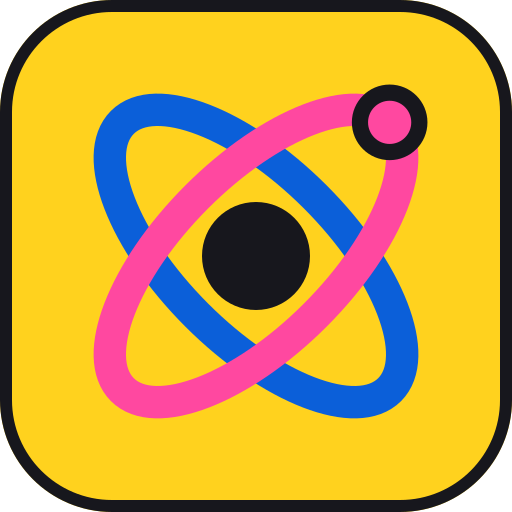
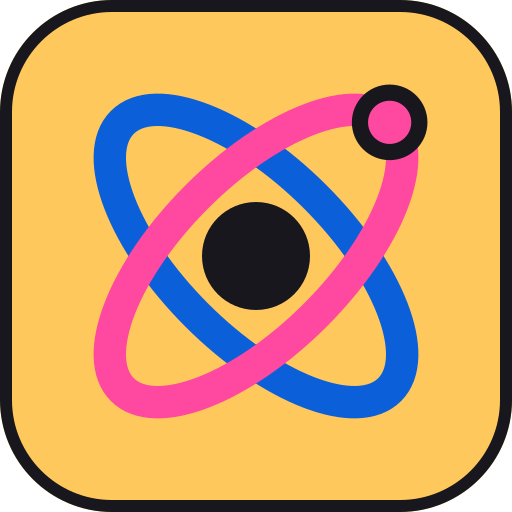
feat: one brand across the funnel — the app's amber is the marketing site's amber
The landing page was built on #FFC85C and the app on #FFD21E, with nothing
outside each file agreeing the other existed. They are one origin now (landing
at /, app at /app), so a student crosses from one to the other in a click and
saw two products. The two primaries are #FFC85C amber and #0B5FD9 blue - one
from each half, neither invented, and the pair survives all seven surfaces
either one has to sit on (weakest 3.7:1).

Changed one ink in docs/brand/build-theme.mjs and re-ran it. ALL 47 MEASURED
PAIRS STILL PASS - that is the whole reason the palette is a script: ink on
amber is 11.62:1 and amber on the dark surface is 12.03:1, both checked before
anything was emitted. Exactly three tokens moved: primary-fixed, its dim, and
the two surface tints that are mixed FROM the amber.

Law 3 survives the swap and is the reason it is safe rather than cosmetic:
#FFC85C is 1.44:1 on newsprint, even less visible unbounded than #FFD21E's
1.35:1, so it still never appears without a keyline.

The landing page moved to the app's ink #17171D and paper #FAF7F0 - two darks
and two papers became one of each. Its --blue token, declared and used nowhere,
now points at the brand blue instead of a stray #3b82f6.

TWO PRE-EXISTING BUGS IN make-app-icons.mjs, both found by running it:

  1. The splash grounds were the literals #f7f9fb and #101317 - the PRE-RISO
     pair, two palettes old. Nobody noticed because nobody re-ran the script:
[…]

diff --git a/landing/app/globals.css b/landing/app/globals.css
@@ -8,7 +8,7 @@
   --font-serif: 'Georgia', serif;
 }
 
-:root { --background: #fffdf8; --foreground: #171717; --ink: #1b1b1b; --sun: #ffc85c; --cream: #fff3dc; --line: #d8cdbb; --blue: #3b82f6; }
+:root { --background: #FAF7F0; --foreground: #17171D; --ink: #17171D; --sun: #FFC85C; --cream: #FFF3DC; --line: #D8CDBB; --blue: #0B5FD9; }
 * { box-sizing: border-box; }
 html { scroll-behavior: smooth; background: var(--background); }
 body { margin: 0; background: var(--background); color: var(--foreground); font-family: var(--font-sans); }
@@ -21,7 +21,7 @@ body { margin: 0; background: var(--background); color: var(--foreground); font-
 .feature:hover, .course-card:hover { transform: translateY(-6px); box-shadow: 0 20px 38px rgba(27, 27, 27, .15), 0 5px 12px rgba(27, 27, 27, .08); }
 .cta { box-shadow: 0 18px 40px rgba(27, 27, 27, .14); }
 .stats div:hover { transform: translateY(-3px); }
-.event-section { background: var(--cream); padding: 76px 0 88px; }.event-shell { display:grid; grid-template-columns:.8fr 1.2fr; gap:70px; align-items:center; }.event-copy h2 { font-size:clamp(54px,7vw,92px); line-height:.92; margin:18px 0 22px; }.event-copy > p:not(.event-kicker) { max-width:430px; line-height:1.7; color:#635c53; }.event-kicker { display:flex; align-items:center; gap:8px; text-transform:uppercase; letter-spacing:.15em; font-size:11px; font-weight:800; }.live-dot { width:9px; height:9px; border-radius:50%; background:#ff5b3d; box-shadow:0 0 0 5px rgba(255,91,61,.14); }.event-details { display:flex; flex-wrap:wrap; gap:9px; margin:25px 0 29px; }.event-details span { padding:8px 12px; border-radius:999px; background:#fffdf8; border:1px solid #e5ddcf; font-size:11px; font-weight:700; }.event-pill { background:var(--ink); color:#fffdf8; }.prize-board { background:linear-gradient(135deg,#1688e8 0%,#4f4ed8 48%,#8334aa 100%); border-radius:30px; padding:30px; color:#fff; box-shadow:0 22px 45px rgba(36,56,153,.23); transform:rotate(1.2deg); }.prize-head { display:grid; grid-template-columns:1fr auto; align-items:end; padding-bottom:20px; border-bottom:1px solid rgba(255,255,255,.25); }.prize-head span,.prize-head small { grid-column:1; text-transform:uppercase; letter-spacing:.13em; font-size:10px; opacity:.8; }.prize-head strong { grid-column:2; grid-row:1 / span 2; font-size:32px; color:#ffd85c; }.prize-list { display:grid; grid-template-columns:repeat(3,1fr); gap:12px; padding:22px 0 17px; }.prize-card { min-height:142px; border-radius:17px; padding:16px; display:flex; flex-direction:column; justify-content:space-between; color:var(--ink); box-shadow:0 8px 16px rgba(16,29,91,.15); transition:transform .25s ease,box-shadow .25s ease; overflow:hidden; }.prize-card img { width:100%; height:82px; object-fit:contain; mix-blend-mode:multiply; filter:drop-shadow(0 8px 6px rgba(27,27,27,.16)); }.prize-card:hover { transform:translateY(-6px) rotate(-1deg); box-shadow:0 15px 22px rgba(16,29,91,.23); }.prize-card.first { background:#ffd85c; }.prize-card.second { background:#fffdf8; }.prize-card.third { background:#66e0bd; }.prize-card.small-prize { background:#f4b3ff; min-height:105px; }.rank { font-size:11px; font-weight:900; letter-spacing:.12em; opacity:.55; }.prize-card b { display:block; font-size:18px; line-height:1.05; }.prize-card small { display:block; font-size:10px; margin-top:6px; opacity:.7; }.prize-spark { align-self:flex-end; font-size:22px; }.event-footnote { margin:0; font-size:11px; opacity:.8; text-align:right; }
+.event-section { background: var(--cream); padding: 76px 0 88px; }.event-shell { display:grid; grid-template-columns:.8fr 1.2fr; gap:70px; align-items:center; }.event-copy h2 { font-size:clamp(54px,7vw,92px); line-height:.92; margin:18px 0 22px; }.event-copy > p:not(.event-kicker) { max-width:430px; line-height:1.7; color:#635c53; }.event-kicker { display:flex; align-items:center; gap:8px; text-transform:uppercase; letter-spacing:.15em; font-size:11px; font-weight:800; }.live-dot { width:9px; height:9px; border-radius:50%; background:#ff5b3d; box-shadow:0 0 0 5px rgba(255,91,61,.14); }.event-details { display:flex; flex-wrap:wrap; gap:9px; margin:25px 0 29px; }.event-details span { padding:8px 12px; border-radius:999px; background:#FAF7F0; border:1px solid #e5ddcf; font-size:11px; font-weight:700; }.event-pill { background:var(--ink); color:#FAF7F0; }.prize-board { background:linear-gradient(135deg,#1688e8 0%,#4f4ed8 48%,#8334aa 100%); border-radius:30px; padding:30px; color:#fff; box-shadow:0 22px 45px rgba(36,56,153,.23); transform:rotate(1.2deg); }.prize-head { display:grid; grid-template-columns:1fr auto; align-items:end; padding-bottom:20px; border-bottom:1px solid rgba(255,255,255,.25); }.prize-head span,.prize-head small { grid-column:1; text-transform:uppercase; letter-spacing:.13em; font-size:10px; opacity:.8; }.prize-head strong { grid-column:2; grid-row:1 / span 2; font-size:32px; color:#ffd85c; }.prize-list { display:grid; grid-template-columns:repeat(3,1fr); gap:12px; padding:22px 0 17px; }.prize-card { min-height:142px; border-radius:17px; padding:16px; display:flex; flex-direction:column; justify-content:space-between; color:var(--ink); box-shadow:0 8px 16px rgba(16,29,91,.15); transition:transform .25s ease,box-shadow .25s ease; overflow:hidden; }.prize-card img { width:100%; height:82px; object-fit:contain; mix-blend-mode:multiply; filter:drop-shadow(0 8px 6px rgba(27,27,27,.16)); }.prize-card:hover { transform:translateY(-6px) rotate(-1deg); box-shadow:0 15px 22px rgba(16,29,91,.23); }.prize-card.first { background:#ffd85c; }.prize-card.second { background:#FAF7F0; }.prize-card.third { background:#66e0bd; }.prize-card.small-prize { background:#f4b3ff; min-height:105px; }.rank { font-size:11px; font-weight:900; letter-spacing:.12em; opacity:.55; }.prize-card b { display:block; font-size:18px; line-height:1.05; }.prize-card small { display:block; font-size:10px; margin-top:6px; opacity:.7; }.prize-spark { align-self:flex-end; font-size:22px; }.event-footnote { margin:0; font-size:11px; opacity:.8; text-align:right; }
 @media (max-width:760px) { .subpage-hero { grid-template-columns:1fr; gap:30px; padding-block:70px; }.subpage-visual { min-height:300px; }.subpage-note { position:absolute; right:0; bottom:0; padding:22px; }.coming-soon-art { position:relative; right:auto; top:auto; width:260px; transform:none; order:-1; }.test-art { width:260px; }.event-shell { grid-template-columns:1fr; gap:38px; }.prize-board { transform:none; padding:20px; }.prize-list { grid-template-columns:repeat(2,1fr); }.prize-card.first { grid-column:span 2; min-height:120px; } }
 @media (prefers-reduced-motion: reduce) { *, *::before, *::after { animation-duration: .01ms !important; animation-iteration-count: 1 !important; scroll-behavior: auto !important; transition-duration: .01ms !important; } }
 a { color: inherit; text-decoration: none; }
@@ -37,7 +37,7 @@ a { color: inherit; text-decoration: none; }
 .menu-button { display: none; border: 0; background: none; font: inherit; }
 .pill { border-radius: 999px; padding: 13px 20px; display: inline-flex; align-items: center; gap: 8px; font-size: 12px; font-weight: 700; transition: transform .2s, box-shadow .2s; }
 .pill:hover, .mini-link:hover { transform: translateY(-2px); }
-.dark-pill { background: var(--ink); color: #fffdf8; }
+.dark-pill { background: var(--ink); color: #FAF7F0; }
 .outline-pill { border: 1px solid var(--ink); }
 .yellow-pill { background: var(--sun); color: var(--ink); }
 .hero-content { display: grid; grid-template-columns: .9fr 1.1fr; align-items: center; min-height: 570px; position: relative; z-index: 1; }
@@ -52,13 +52,13 @@ em { font-family: var(--font-serif); font-weight: 400; letter-spacing: -.08em; }
 .stats { min-height: 155px; display: grid; grid-template-columns: repeat(4,1fr); align-items: center; text-align: center; gap: 20px; }
 .stats div + div { border-left: 1px solid var(--line); }.stats strong { display: block; font-size: 31px; letter-spacing: -.07em; }.stats span { font-size: 11px; color: #767067; text-transform: uppercase; letter-spacing: .08em; }
 .intro,.steps { display: grid; grid-template-columns: 1fr 1fr; gap: 90px; align-items: center; padding-block: 110px; }.intro { background: var(--cream); max-width: none; padding-inline: max(32px, calc((100% - 1160px)/2)); box-shadow: inset 0 18px 30px rgba(27,27,27,.035), inset 0 -18px 30px rgba(27,27,27,.035); }.intro-art img,.steps-art img { width: 100%; max-height: 440px; object-fit: contain; mix-blend-mode: multiply; filter: drop-shadow(0 16px 12px rgba(27,27,27,.12)); }.section-copy > p:not(.eyebrow) { max-width: 420px; line-height: 1.7; color: #5d574e; }.text-link,.mini-link { display: inline-flex; gap: 8px; font-weight: 800; font-size: 13px; border-bottom: 1px solid var(--ink); padding-bottom: 5px; margin-top: 18px; }
-.why { padding-block: 110px; }.why-head { display:flex; justify-content:space-between; align-items:end; margin-bottom: 52px; }.why-head > p { max-width: 270px; line-height: 1.6; color:#71695e; }.feature-grid { display:grid; grid-template-columns: repeat(4, 1fr); gap: 18px; }.feature { min-height: 230px; border: 1px solid #eee9e0; border-radius: 20px; padding: 27px; box-shadow: 0 10px 30px #1b1b1b08; display:flex; flex-direction:column; }.feature p,.course-card p { line-height:1.55; font-size:13px; color:#71695e; }.feature h3 { margin-top:auto; }.icon { width: 48px; height: 48px; display:grid; place-items:center; margin-bottom: 30px; color: var(--ink); background: var(--sun); border-radius: 14px; }.icon svg { width: 25px; height: 25px; stroke-width: 1.9; }.course-meta span { display:inline-flex; align-items:center; gap:5px; }.course-meta svg { width:12px; height:12px; color:var(--sun-deep); stroke-width:2.2; }
-.courses { background: var(--ink); color: #fffdf8; padding-block: 105px; box-shadow: inset 0 16px 30px rgba(0,0,0,.14), inset 0 -16px 30px rgba(0,0,0,.14); }.courses-heading { display:flex; align-items:end; justify-content:space-between; margin-bottom: 48px; }.courses-heading h2 { margin-bottom:0; }.courses-heading > p:last-child { color:#b9b4ad; margin-bottom:6px; }.course-grid { display:grid; grid-template-columns:repeat(3,1fr); gap:20px; }.course-card { color:var(--ink); background:#fffdf8; border-radius:16px; padding:12px 12px 22px; }.course-image { border-radius:11px; height:210px; display:flex; align-items:center; justify-content:center; overflow:hidden; }.image-0 { background:#f3d3bb; }.image-1 { background:#dce5fa; }.image-2 { background:#d6f0db; }.course-image img { width:100%; height:100%; object-fit:contain; mix-blend-mode:multiply; }.course-meta { display:flex; justify-content:space-between; color:#777; font-size:10px; margin:15px 4px 8px; }.course-card h3,.course-card p { margin-inline:4px; }.course-card h3 { font-size:17px; }.course-card p { min-height: 42px; }.mini-link { margin: 9px 4px 0; font-size:11px; }
+.why { padding-block: 110px; }.why-head { display:flex; justify-content:space-between; align-items:end; margin-bottom: 52px; }.why-head > p { max-width: 270px; line-height: 1.6; color:#71695e; }.feature-grid { display:grid; grid-template-columns: repeat(4, 1fr); gap: 18px; }.feature { min-height: 230px; border: 1px solid #eee9e0; border-radius: 20px; padding: 27px; box-shadow: 0 10px 30px #17171D08; display:flex; flex-direction:column; }.feature p,.course-card p { line-height:1.55; font-size:13px; color:#71695e; }.feature h3 { margin-top:auto; }.icon { width: 48px; height: 48px; display:grid; place-items:center; margin-bottom: 30px; color: var(--ink); background: var(--sun); border-radius: 14px; }.icon svg { width: 25px; height: 25px; stroke-width: 1.9; }.course-meta span { display:inline-flex; align-items:center; gap:5px; }.course-meta svg { width:12px; height:12px; color:var(--sun-deep); stroke-width:2.2; }
+.courses { background: var(--ink); color: #FAF7F0; padding-block: 105px; box-shadow: inset 0 16px 30px rgba(0,0,0,.14), inset 0 -16px 30px rgba(0,0,0,.14); }.courses-heading { display:flex; align-items:end; justify-content:space-between; margin-bottom: 48px; }.courses-heading h2 { margin-bottom:0; }.courses-heading > p:last-child { color:#b9b4ad; margin-bottom:6px; }.course-grid { display:grid; grid-template-columns:repeat(3,1fr); gap:20px; }.course-card { color:var(--ink); background:#FAF7F0; border-radius:16px; padding:12px 12px 22px; }.course-image { border-radius:11px; height:210px; display:flex; align-items:center; justify-content:center; overflow:hidden; }.image-0 { background:#f3d3bb; }.image-1 { background:#dce5fa; }.image-2 { background:#d6f0db; }.course-image img { width:100%; height:100%; object-fit:contain; mix-blend-mode:multiply; }.course-meta { display:flex; justify-content:space-between; color:#777; font-size:10px; margin:15px 4px 8px; }.course-card h3,.course-card p { margin-inline:4px; }.course-card h3 { font-size:17px; }.course-card p { min-height: 42px; }.mini-link { margin: 9px 4px 0; font-size:11px; }
 .steps { padding-block: 130px; }.steps ul { list-style:none; padding: 12px 0 0; margin:0; display:grid; gap:15px; font-size:13px; }.steps li { display:flex; align-items:center; gap:14px; }.steps li b { background:var(--sun); border-radius:50%; width:23px; height:23px; display:grid; place-items:center; font-size:9px; }.steps-art { display:flex; justify-content:center; }
-.cta { background:var(--sun); border-radius:28px; display:grid; grid-template-columns: .8fr 1.2fr; align-items:center; padding:25px 80px 0; overflow:hidden; }.cta-art { align-self:end; height:300px; }.cta-art img { width:100%; height:100%; object-fit:contain; object-position:bottom; mix-blend-mode:multiply; }.cta h2 { font-size:clamp(38px,4vw,60px); }.app-promo { text-align:center; padding-block:130px; background:var(--cream); margin-top:80px; }.app-promo p:not(.eyebrow) { color:#71695e; }.store-buttons { display:flex; justify-content:center; gap:10px; margin-top:26px; }.play-store-button { background:var(--ink); color:#fffdf8; border:0; border-radius:10px; display:flex; align-items:center; gap:13px; text-align:left; padding:15px 24px; min-width:190px; box-shadow:0 10px 20px rgba(27,27,27,.16); transition:transform .2s ease, box-shadow .2s ease; }.play-store-button:hover { transform:translateY(-3px); box-shadow:0 15px 26px rgba(27,27,27,.22); }.play-store-button img { width:30px; height:30px; }.play-store-button span { font-size:9px; line-height:1.25; letter-spacing:.04em; }.play-store-button b { font-size:17px; letter-spacing:-.03em; }
-footer { background:var(--ink); color:#fffdf8; padding-block:70px 24px; }.footer-grid { display:grid; grid-template-columns:2fr 1fr 1fr 1.4fr; gap:40px; }.footer-grid > div { display:flex; flex-direction:column; gap:13px; }.footer-logo { margin-bottom:12px; }.footer-grid p,.footer-grid a:not(.logo) { color:#bdb8b0; font-size:12px; line-height:1.5; }.footer-grid b { font-size:12px; }.footer-grid form { display:flex; border-bottom:1px solid #777; padding-bottom:8px; }.footer-grid input { background:none; border:0; color:#fffdf8; outline:0; width:100%; }.footer-grid form button { background:none; color:#fffdf8; border:0; font-size:18px; }.joined { color:var(--sun)!important; }.footer-bottom { border-top:1px solid #3e3e3e; margin-top:55px; padding-top:20px; display:flex; justify-content:space-between; color:#777; font-size:10px; }
-@media (max-width: 760px) { .shell { width:min(100% - 38px, 560px); }.nav-links,.nav-actions { display:none; }.subpage .nav-actions { display:flex; }.subpage .back-home { display:none; }.menu-button { display:block; margin-left:auto; margin-right:14px; }.nav-links.is-open { display:flex; position:absolute; top:70px; right:0; background:var(--ink); color:#fffdf8; padding:18px; border-radius:12px; flex-direction:column; gap:14px; }.hero { min-height:780px; }.hero-content { display:block; padding-top:42px; }.hero-copy { padding-bottom:0; }.hero-art { height:390px; }.hero-note { display:none; }.stats { grid-template-columns:repeat(2,1fr); padding-block:30px; }.stats div:nth-child(3) { border-left:0; }.stats div:nth-child(n+3) { margin-top:20px; }.intro,.steps { display:flex; flex-direction:column; gap:25px; padding-block:75px; }.intro { padding-inline:19px; }.intro-art { order:2; }.section-copy { order:1; }.why { padding-block:75px; }.why-head,.courses-heading { display:block; }.why-head > p,.courses-heading > p:last-child { margin-top:24px; }.feature-grid,.course-grid { grid-template-columns:1fr; }.feature { min-height:220px; }.course-image { height:250px; }.cta { grid-template-columns:1fr; padding:35px 28px 0; margin-top:20px; }.cta-art { order:2; height:270px; }.app-promo { margin-top:55px; padding-block:85px; }.footer-grid { grid-template-columns:1fr 1fr; gap:35px 20px; }.footer-grid > div:first-child,.footer-grid > div:last-child { grid-column:span 2; }.footer-bottom { display:block; line-height:2; } }
-.register-page { min-height:100vh; background:var(--sun); }.register-page .nav { padding-block:28px; }.register-page .nav .back-home { display:block; }.register-shell { display:grid; grid-template-columns:.72fr 1.28fr; gap:80px; align-items:start; padding-block:80px 110px; }.register-intro h1,.test-placeholder h1 { font-size:clamp(56px,7vw,96px); line-height:.9; margin:20px 0 26px; }.register-intro > p:not(.eyebrow) { max-width:390px; line-height:1.7; }.register-illustration { width:260px; margin:20px 0 -10px; }.register-illustration img { width:100%; max-height:180px; object-fit:contain; mix-blend-mode:multiply; filter:drop-shadow(0 12px 10px rgba(27,27,27,.12)); animation:gentle-float 5s ease-in-out infinite; }.register-highlight { display:flex; flex-direction:column; gap:6px; margin-top:42px; padding:20px 22px; background:#fffdf8; border-radius:18px; box-shadow:0 12px 28px rgba(27,27,27,.1); width:max-content; }.register-highlight strong { font-size:26px; }.register-highlight span { font-size:11px; }.register-form { background:#fffdf8; border-radius:26px; padding:34px; box-shadow:0 22px 50px rgba(27,27,27,.14); }.form-heading { display:flex; gap:18px; align-items:flex-start; padding-bottom:25px; border-bottom:1px solid #eee9e0; }.form-heading > span { color:#d09214; font-weight:900; }.form-heading h2 { margin:0; font-size:28px; }.form-heading p { margin:5px 0 0; color:#746b61; font-size:12px; }.form-grid { display:grid; grid-template-columns:1fr 1fr; gap:18px; padding:28px 0; }.form-grid label { display:flex; flex-direction:column; gap:8px; font-size:12px; font-weight:800; }.form-grid input,.form-grid select,.form-grid textarea { width:100%; border:1px solid #ded7cc; border-radius:10px; padding:13px 14px; background:#fff; color:var(--ink); font:inherit; font-weight:400; outline:none; }.form-grid input:focus,.form-grid select:focus,.form-grid textarea:focus { border-color:#d09214; box-shadow:0 0 0 3px rgba(233,168,34,.18); }.full-field { grid-column:span 2; }.consent-box { display:grid; gap:12px; padding:18px 0; border-top:1px solid #eee9e0; }.consent-box label { display:flex; gap:10px; align-items:flex-start; font-size:11px; line-height:1.5; color:#625a51; }.consent-box input { margin-top:3px; accent-color:var(--ink); }.consent-box a { color:var(--ink); font-weight:800; }.form-submit { border:0; cursor:pointer; }.form-error { color:#b6422d; font-size:12px; margin:0 0 15px; }.success-box { display:flex; flex-direction:column; gap:10px; background:#e1f5dd; border-radius:14px; padding:18px; }.success-box span { font-size:12px; color:#4d604c; margin-bottom:6px; }.test-placeholder { padding-block:100px; max-width:760px; position:relative; }.test-art { width:340px; margin-bottom:20px; }.test-art img { width:100%; max-height:250px; object-fit:contain; mix-blend-mode:multiply; filter:drop-shadow(0 16px 12px rgba(27,27,27,.12)); animation:gentle-float 5s ease-in-out infinite; }.test-placeholder > p:not(.eyebrow) { max-width:460px; line-height:1.7; margin:26px 0 30px; }
-.subpage { min-height:100vh; background:var(--cream); }.subpage-hero { display:grid; grid-template-columns:1.1fr .9fr; gap:70px; align-items:center; padding-block:100px 90px; }.subpage-visual { position:relative; min-height:430px; display:flex; align-items:center; justify-content:center; }.subpage-visual > img { width:100%; max-height:410px; object-fit:contain; mix-blend-mode:multiply; filter:drop-shadow(0 18px 14px rgba(27,27,27,.14)); animation:gentle-float 5s ease-in-out infinite; }.subpage-hero h1 { font-size:clamp(48px,7vw,92px); line-height:.98; max-width:780px; }.subpage-note { background:var(--sun); border-radius:28px; padding:48px; box-shadow:0 20px 45px rgba(27,27,27,.14); transform:rotate(3deg); }.subpage-note span { text-transform:uppercase; letter-spacing:.16em; font-size:12px; }.subpage-note strong { display:block; font-size:110px; line-height:1; margin:24px 0; }.subpage-content { padding-block:90px 120px; }.subpage-content h2 { font-size:clamp(36px,5vw,64px); max-width:620px; }.subpage-points { display:grid; grid-template-columns:repeat(3,1fr); gap:18px; margin:48px 0; }.subpage-points article { background:#fffdf8; border:1px solid #eee9e0; border-radius:20px; padding:28px; min-height:150px; box-shadow:0 14px 28px rgba(27,27,27,.08); }.subpage-points span { font-size:28px; color:var(--sun-deep); }.subpage-points p { margin-top:30px; line-height:1.5; }.subpage footer { background:var(--ink); color:#fffdf8; padding:28px 0; }.subpage footer a { color:#fffdf8; }
+.cta { background:var(--sun); border-radius:28px; display:grid; grid-template-columns: .8fr 1.2fr; align-items:center; padding:25px 80px 0; overflow:hidden; }.cta-art { align-self:end; height:300px; }.cta-art img { width:100%; height:100%; object-fit:contain; object-position:bottom; mix-blend-mode:multiply; }.cta h2 { font-size:clamp(38px,4vw,60px); }.app-promo { text-align:center; padding-block:130px; background:var(--cream); margin-top:80px; }.app-promo p:not(.eyebrow) { color:#71695e; }.store-buttons { display:flex; justify-content:center; gap:10px; margin-top:26px; }.play-store-button { background:var(--ink); color:#FAF7F0; border:0; border-radius:10px; display:flex; align-items:center; gap:13px; text-align:left; padding:15px 24px; min-width:190px; box-shadow:0 10px 20px rgba(27,27,27,.16); transition:transform .2s ease, box-shadow .2s ease; }.play-store-button:hover { transform:translateY(-3px); box-shadow:0 15px 26px rgba(27,27,27,.22); }.play-store-button img { width:30px; height:30px; }.play-store-button span { font-size:9px; line-height:1.25; letter-spacing:.04em; }.play-store-button b { font-size:17px; letter-spacing:-.03em; }
+footer { background:var(--ink); color:#FAF7F0; padding-block:70px 24px; }.footer-grid { display:grid; grid-template-columns:2fr 1fr 1fr 1.4fr; gap:40px; }.footer-grid > div { display:flex; flex-direction:column; gap:13px; }.footer-logo { margin-bottom:12px; }.footer-grid p,.footer-grid a:not(.logo) { color:#bdb8b0; font-size:12px; line-height:1.5; }.footer-grid b { font-size:12px; }.footer-grid form { display:flex; border-bottom:1px solid #777; padding-bottom:8px; }.footer-grid input { background:none; border:0; color:#FAF7F0; outline:0; width:100%; }.footer-grid form button { background:none; color:#FAF7F0; border:0; font-size:18px; }.joined { color:var(--sun)!important; }.footer-bottom { border-top:1px solid #3e3e3e; margin-top:55px; padding-top:20px; display:flex; justify-content:space-between; color:#777; font-size:10px; }
+@media (max-width: 760px) { .shell { width:min(100% - 38px, 560px); }.nav-links,.nav-actions { display:none; }.subpage .nav-actions { display:flex; }.subpage .back-home { display:none; }.menu-button { display:block; margin-left:auto; margin-right:14px; }.nav-links.is-open { display:flex; position:absolute; top:70px; right:0; background:var(--ink); color:#FAF7F0; padding:18px; border-radius:12px; flex-direction:column; gap:14px; }.hero { min-height:780px; }.hero-content { display:block; padding-top:42px; }.hero-copy { padding-bottom:0; }.hero-art { height:390px; }.hero-note { display:none; }.stats { grid-template-columns:repeat(2,1fr); padding-block:30px; }.stats div:nth-child(3) { border-left:0; }.stats div:nth-child(n+3) { margin-top:20px; }.intro,.steps { display:flex; flex-direction:column; gap:25px; padding-block:75px; }.intro { padding-inline:19px; }.intro-art { order:2; }.section-copy { order:1; }.why { padding-block:75px; }.why-head,.courses-heading { display:block; }.why-head > p,.courses-heading > p:last-child { margin-top:24px; }.feature-grid,.course-grid { grid-template-columns:1fr; }.feature { min-height:220px; }.course-image { height:250px; }.cta { grid-template-columns:1fr; padding:35px 28px 0; margin-top:20px; }.cta-art { order:2; height:270px; }.app-promo { margin-top:55px; padding-block:85px; }.footer-grid { grid-template-columns:1fr 1fr; gap:35px 20px; }.footer-grid > div:first-child,.footer-grid > div:last-child { grid-column:span 2; }.footer-bottom { display:block; line-height:2; } }
+.register-page { min-height:100vh; background:var(--sun); }.register-page .nav { padding-block:28px; }.register-page .nav .back-home { display:block; }.register-shell { display:grid; grid-template-columns:.72fr 1.28fr; gap:80px; align-items:start; padding-block:80px 110px; }.register-intro h1,.test-placeholder h1 { font-size:clamp(56px,7vw,96px); line-height:.9; margin:20px 0 26px; }.register-intro > p:not(.eyebrow) { max-width:390px; line-height:1.7; }.register-illustration { width:260px; margin:20px 0 -10px; }.register-illustration img { width:100%; max-height:180px; object-fit:contain; mix-blend-mode:multiply; filter:drop-shadow(0 12px 10px rgba(27,27,27,.12)); animation:gentle-float 5s ease-in-out infinite; }.register-highlight { display:flex; flex-direction:column; gap:6px; margin-top:42px; padding:20px 22px; background:#FAF7F0; border-radius:18px; box-shadow:0 12px 28px rgba(27,27,27,.1); width:max-content; }.register-highlight strong { font-size:26px; }.register-highlight span { font-size:11px; }.register-form { background:#FAF7F0; border-radius:26px; padding:34px; box-shadow:0 22px 50px rgba(27,27,27,.14); }.form-heading { display:flex; gap:18px; align-items:flex-start; padding-bottom:25px; border-bottom:1px solid #eee9e0; }.form-heading > span { color:#d09214; font-weight:900; }.form-heading h2 { margin:0; font-size:28px; }.form-heading p { margin:5px 0 0; color:#746b61; font-size:12px; }.form-grid { display:grid; grid-template-columns:1fr 1fr; gap:18px; padding:28px 0; }.form-grid label { display:flex; flex-direction:column; gap:8px; font-size:12px; font-weight:800; }.form-grid input,.form-grid select,.form-grid textarea { width:100%; border:1px solid #ded7cc; border-radius:10px; padding:13px 14px; background:#fff; color:var(--ink); font:inherit; font-weight:400; outline:none; }.form-grid input:focus,.form-grid select:focus,.form-grid textarea:focus { border-color:#d09214; box-shadow:0 0 0 3px rgba(233,168,34,.18); }.full-field { grid-column:span 2; }.consent-box { display:grid; gap:12px; padding:18px 0; border-top:1px solid #eee9e0; }.consent-box label { display:flex; gap:10px; align-items:flex-start; font-size:11px; line-height:1.5; color:#625a51; }.consent-box input { margin-top:3px; accent-color:var(--ink); }.consent-box a { color:var(--ink); font-weight:800; }.form-submit { border:0; cursor:pointer; }.form-error { color:#b6422d; font-size:12px; margin:0 0 15px; }.success-box { display:flex; flex-direction:column; gap:10px; background:#e1f5dd; border-radius:14px; padding:18px; }.success-box span { font-size:12px; color:#4d604c; margin-bottom:6px; }.test-placeholder { padding-block:100px; max-width:760px; position:relative; }.test-art { width:340px; margin-bottom:20px; }.test-art img { width:100%; max-height:250px; object-fit:contain; mix-blend-mode:multiply; filter:drop-shadow(0 16px 12px rgba(27,27,27,.12)); animation:gentle-float 5s ease-in-out infinite; }.test-placeholder > p:not(.eyebrow) { max-width:460px; line-height:1.7; margin:26px 0 30px; }
+.subpage { min-height:100vh; background:var(--cream); }.subpage-hero { display:grid; grid-template-columns:1.1fr .9fr; gap:70px; align-items:center; padding-block:100px 90px; }.subpage-visual { position:relative; min-height:430px; display:flex; align-items:center; justify-content:center; }.subpage-visual > img { width:100%; max-height:410px; object-fit:contain; mix-blend-mode:multiply; filter:drop-shadow(0 18px 14px rgba(27,27,27,.14)); animation:gentle-float 5s ease-in-out infinite; }.subpage-hero h1 { font-size:clamp(48px,7vw,92px); line-height:.98; max-width:780px; }.subpage-note { background:var(--sun); border-radius:28px; padding:48px; box-shadow:0 20px 45px rgba(27,27,27,.14); transform:rotate(3deg); }.subpage-note span { text-transform:uppercase; letter-spacing:.16em; font-size:12px; }.subpage-note strong { display:block; font-size:110px; line-height:1; margin:24px 0; }.subpage-content { padding-block:90px 120px; }.subpage-content h2 { font-size:clamp(36px,5vw,64px); max-width:620px; }.subpage-points { display:grid; grid-template-columns:repeat(3,1fr); gap:18px; margin:48px 0; }.subpage-points article { background:#FAF7F0; border:1px solid #eee9e0; border-radius:20px; padding:28px; min-height:150px; box-shadow:0 14px 28px rgba(27,27,27,.08); }.subpage-points span { font-size:28px; color:var(--sun-deep); }.subpage-points p { margin-top:30px; line-height:1.5; }.subpage footer { background:var(--ink); color:#FAF7F0; padding:28px 0; }.subpage footer a { color:#FAF7F0; }
 .coming-soon-page { min-height:100vh; background:var(--sun); }.coming-soon-content { min-height:calc(100vh - 88px); display:flex; flex-direction:column; align-items:flex-start; justify-content:center; padding-block:80px 120px; }.coming-soon-content { position:relative; }.coming-soon-art { position:absolute; right:0; top:50%; width:360px; transform:translateY(-50%); }.coming-soon-art img { width:100%; mix-blend-mode:multiply; filter:drop-shadow(0 16px 12px rgba(27,27,27,.12)); animation:gentle-float 5s ease-in-out infinite; }.coming-soon-content h1 { max-width:760px; }.coming-soon-content > p:not(.eyebrow) { max-width:450px; line-height:1.7; font-size:16px; margin-bottom:30px; }.coming-soon-page .back-home { font-size:12px; }.sr-only { position:absolute; width:1px; height:1px; padding:0; margin:-1px; overflow:hidden; clip:rect(0,0,0,0); white-space:nowrap; border:0; }
 @media (max-width:760px) { .subpage-hero { grid-template-columns:1fr; gap:40px; padding-block:70px; }.subpage-note { transform:none; padding:32px; }.subpage-note strong { font-size:80px; }.subpage-points { grid-template-columns:1fr; margin-top:32px; } }

diff --git a/apps/classroom/tests/brand.test.ts b/apps/classroom/tests/brand.test.ts
@@ -35,6 +35,22 @@ function rooms(css: string): { light: Record<string, string>; dark: Record<strin
   return { light: tokens(css.slice(0, darkAt)), dark: tokens(css.slice(darkAt)) };
 }
 
+/** `255 200 92` -> `#FFC85C`. The CSS carries triplets; SVG carries hex. */
+const asHex = (triplet: string): string =>
+  '#' + triplet.split(' ').map((n) => Number(n).toString(16).padStart(2, '0')).join('').toUpperCase();
+
+/**
+ * THE BRAND AMBER, READ FROM THE GENERATOR RATHER THAN REMEMBERED.
+ *
+ * This used to be the literal `#FFD21E` typed into two assertions below, and
+ * that is exactly the drift this file exists to catch: when the palette moved
+ * to the marketing site's #FFC85C, the icons and the theme could have parted
+ * company with both tests still green, because the tests were pinning a
+ * snapshot instead of the invariant. The invariant is "the icon tile IS
+ * --c-primary-fixed", so that is what is asserted.
+ */
+const AMBER = asHex(rooms(read('docs/brand/riso-pop.theme.css')).light['primary-fixed']);
+
 describe('the shipped palette is the generated palette', () => {
   const generated = rooms(read('docs/brand/riso-pop.theme.css'));
   const shipped = rooms(read('apps/classroom/src/theme.css'));
@@ -93,8 +109,8 @@ describe('the icons wear the riso inks on the shared geometry', () => {
         expect(svg).toContain('#FF48A0');
       });
 
-      it('sits on the yellow tile with an ink keyline — law 3', () => {
-        expect(svg).toContain('#FFD21E');
+      it('sits on the amber tile with an ink keyline — law 3', () => {
+        expect(svg, 'the tile is not --c-primary-fixed').toContain(AMBER);
         // The keyline the law is about: an ink-STROKED rect bounding the tile,
         // heavy enough to survive a launcher's downscale. Asserting "some ink
         // stroke exists" was satisfiable by the electron's outline alone, which
@@ -121,11 +137,13 @@ describe('the maskable icon survives the Android adaptive viewport', () => {
     expect(svg).toMatch(/<rect width="512" height="512"[^>]*fill="#FAF7F0"/);
   });
 
-  it('keeps the yellow tile — corners included — inside the 66dp safe circle', () => {
+  it('keeps the amber tile — corners included — inside the 66dp safe circle', () => {
     const tile = svg.match(
-      /<rect x="([\d.]+)" y="([\d.]+)" width="([\d.]+)" height="([\d.]+)" rx="([\d.]+)" fill="#FFD21E"/,
+      new RegExp(
+        `<rect x="([\\d.]+)" y="([\\d.]+)" width="([\\d.]+)" height="([\\d.]+)" rx="([\\d.]+)" fill="${AMBER}"`,
+      ),
     );
-    expect(tile, 'no inset yellow tile rect found').not.toBeNull();
+    expect(tile, 'no inset amber tile rect found').not.toBeNull();
     const [, x, , w, , rx] = tile!.map(Number);
     // Farthest yellow from centre: out along the diagonal to the rounded
     // corner's arc centre, then its radius in any direction.

diff --git a/apps/classroom/src/theme.css b/apps/classroom/src/theme.css
@@ -7,8 +7,10 @@
         under white, 5.68:1 under ink — so ink is the only thing on it. This is
         the same call the amber palette made, for the same reason.
      2. Pink that has to be READ is #D6117A (4.65:1).
-     3. Yellow #FFD21E is 1.35:1 on paper — invisible unbounded. It never
+     3. Amber #FFC85C is 1.44:1 on paper — invisible unbounded. It never
         appears without a keyline. Riso printing has keylines anyway.
+        It is the marketing site's hero amber, so the landing page and the
+        app are one brand rather than two.
 
    Values are RGB triplets because Tailwind's opacity modifiers (bg-primary/25)
    compose an alpha into them. */
@@ -18,8 +20,8 @@
   --c-on-primary: 250 247 240;
   --c-primary-container: 255 72 160;
   --c-on-primary-container: 23 23 29;
-  --c-primary-fixed: 255 210 30;
-  --c-primary-fixed-dim: 227 188 30;
+  --c-primary-fixed: 255 200 92;
+  --c-primary-fixed-dim: 227 179 84;
   --c-on-primary-fixed: 23 23 29;
   --c-on-primary-fixed-variant: 142 35 16;
   --c-inverse-primary: 143 180 255;
@@ -53,8 +55,8 @@
   --c-surface-bright: 255 251 242;
   --c-surface-dim: 220 218 213;
   --c-surface-container-lowest: 255 255 255;
-  --c-surface-container-low: 250 245 230;
-  --c-surface-container: 250 244 221;
+  --c-surface-container-low: 250 245 233;
+  --c-surface-container: 250 243 227;
   --c-surface-container-high: 234 231 225;
   --c-surface-container-highest: 225 222 217;
   --c-inverse-surface: 20 19 24;
@@ -68,8 +70,8 @@
   --c-on-primary: 10 23 48;
   --c-primary-container: 255 127 192;
   --c-on-primary-container: 43 0 22;
-  --c-primary-fixed: 255 210 30;
-  --c-primary-fixed-dim: 227 188 30;
+  --c-primary-fixed: 255 200 92;
+  --c-primary-fixed-dim: 227 179 84;
   --c-on-primary-fixed: 23 23 29;
   --c-on-primary-fixed-variant: 142 35 16;
   --c-inverse-primary: 11 95 217;

diff --git a/docs/brand/riso-pop.theme.css b/docs/brand/riso-pop.theme.css
@@ -7,8 +7,10 @@
         under white, 5.68:1 under ink — so ink is the only thing on it. This is
         the same call the amber palette made, for the same reason.
      2. Pink that has to be READ is #D6117A (4.65:1).
-     3. Yellow #FFD21E is 1.35:1 on paper — invisible unbounded. It never
+     3. Amber #FFC85C is 1.44:1 on paper — invisible unbounded. It never
         appears without a keyline. Riso printing has keylines anyway.
+        It is the marketing site's hero amber, so the landing page and the
+        app are one brand rather than two.
 
    Values are RGB triplets because Tailwind's opacity modifiers (bg-primary/25)
    compose an alpha into them. */
@@ -18,8 +20,8 @@
   --c-on-primary: 250 247 240;
   --c-primary-container: 255 72 160;
   --c-on-primary-container: 23 23 29;
-  --c-primary-fixed: 255 210 30;
-  --c-primary-fixed-dim: 227 188 30;
+  --c-primary-fixed: 255 200 92;
+  --c-primary-fixed-dim: 227 179 84;
   --c-on-primary-fixed: 23 23 29;
   --c-on-primary-fixed-variant: 142 35 16;
   --c-inverse-primary: 143 180 255;
@@ -53,8 +55,8 @@
   --c-surface-bright: 255 251 242;
   --c-surface-dim: 220 218 213;
   --c-surface-container-lowest: 255 255 255;
-  --c-surface-container-low: 250 245 230;
-  --c-surface-container: 250 244 221;
+  --c-surface-container-low: 250 245 233;
+  --c-surface-container: 250 243 227;
   --c-surface-container-high: 234 231 225;
   --c-surface-container-highest: 225 222 217;
   --c-inverse-surface: 20 19 24;
@@ -68,8 +70,8 @@
   --c-on-primary: 10 23 48;
   --c-primary-container: 255 127 192;
   --c-on-primary-container: 43 0 22;
-  --c-primary-fixed: 255 210 30;
-  --c-primary-fixed-dim: 227 188 30;
+  --c-primary-fixed: 255 200 92;
+  --c-primary-fixed-dim: 227 179 84;
   --c-on-primary-fixed: 23 23 29;
   --c-on-primary-fixed-variant: 142 35 16;
   --c-inverse-primary: 11 95 217;

diff --git a/apps/classroom/src/ui/Logo.tsx b/apps/classroom/src/ui/Logo.tsx
@@ -19,13 +19,15 @@ import { BRAND } from '../brand';
  * RISO POP redrew the inks, not the geometry: each orbit is one riso PLATE —
  * the pressable blue and the fluoro pink — overprinted the way a two-colour
  * riso poster actually prints, the nucleus in ink and the electron riding its
- * orbit's fluoro plate (in the icon files, where it sits on yellow, the
+ * orbit's fluoro plate (in the icon files, where it sits on amber, the
  * electron gains an ink keyline it does not need in-app). Every
  * colour arrives through a token class and `currentColor`, never a literal
  * hex, so the mark re-pitches itself in the dark room with the rest of the
- * palette (the blue plate lightens, the ink flips to paper). The yellow tile
- * and its keyline belong to content/icon.svg — in the app the mark sits
- * straight on whatever surface the screen already has.
+ * palette (the blue plate lightens, the ink flips to paper) — and it picked up
+ * the move from #FFD21E to the marketing site's #FFC85C without a line
+ * changing here, which is what the tokens are for. The amber tile and its
+ * keyline belong to content/icon.svg — in the app the mark sits straight on
+ * whatever surface the screen already has.
  */
 export function Logo({
   size = 32,

diff --git a/apps/classroom/index.html b/apps/classroom/index.html
@@ -20,10 +20,12 @@
          load. Deliberately duplicates src/lib/theme.ts rather than importing
          it: the module graph has not loaded yet at this point. The store key
          and the rule must stay in step with that file.
-         KNOWN drift until a recorded handoff lands: theme.ts CHROME still
-         holds the pre-riso hexes and re-stamps the meta at boot, overwriting
-         these values. theme.css is the source of truth — brand.test.ts and
-         theme.test.ts pin THIS file to it, so fix theme.ts, never here. -->
+         The drift this comment used to warn about is GONE: theme.ts CHROME is
+         #faf7f0 / #141318, the same pair as below and the same as the
+         background token in theme.css, so applyTheme re-stamping the meta at
+         boot no longer overwrites these with a stale value. theme.css stays
+         the source of truth — brand.test.ts and theme.test.ts pin THIS file
+         to it, so a colour moves in theme.css first, never here. -->
     <script>
       try {
         var pref = JSON.parse(localStorage.getItem('ai-tutor:preferences') || '{}');
